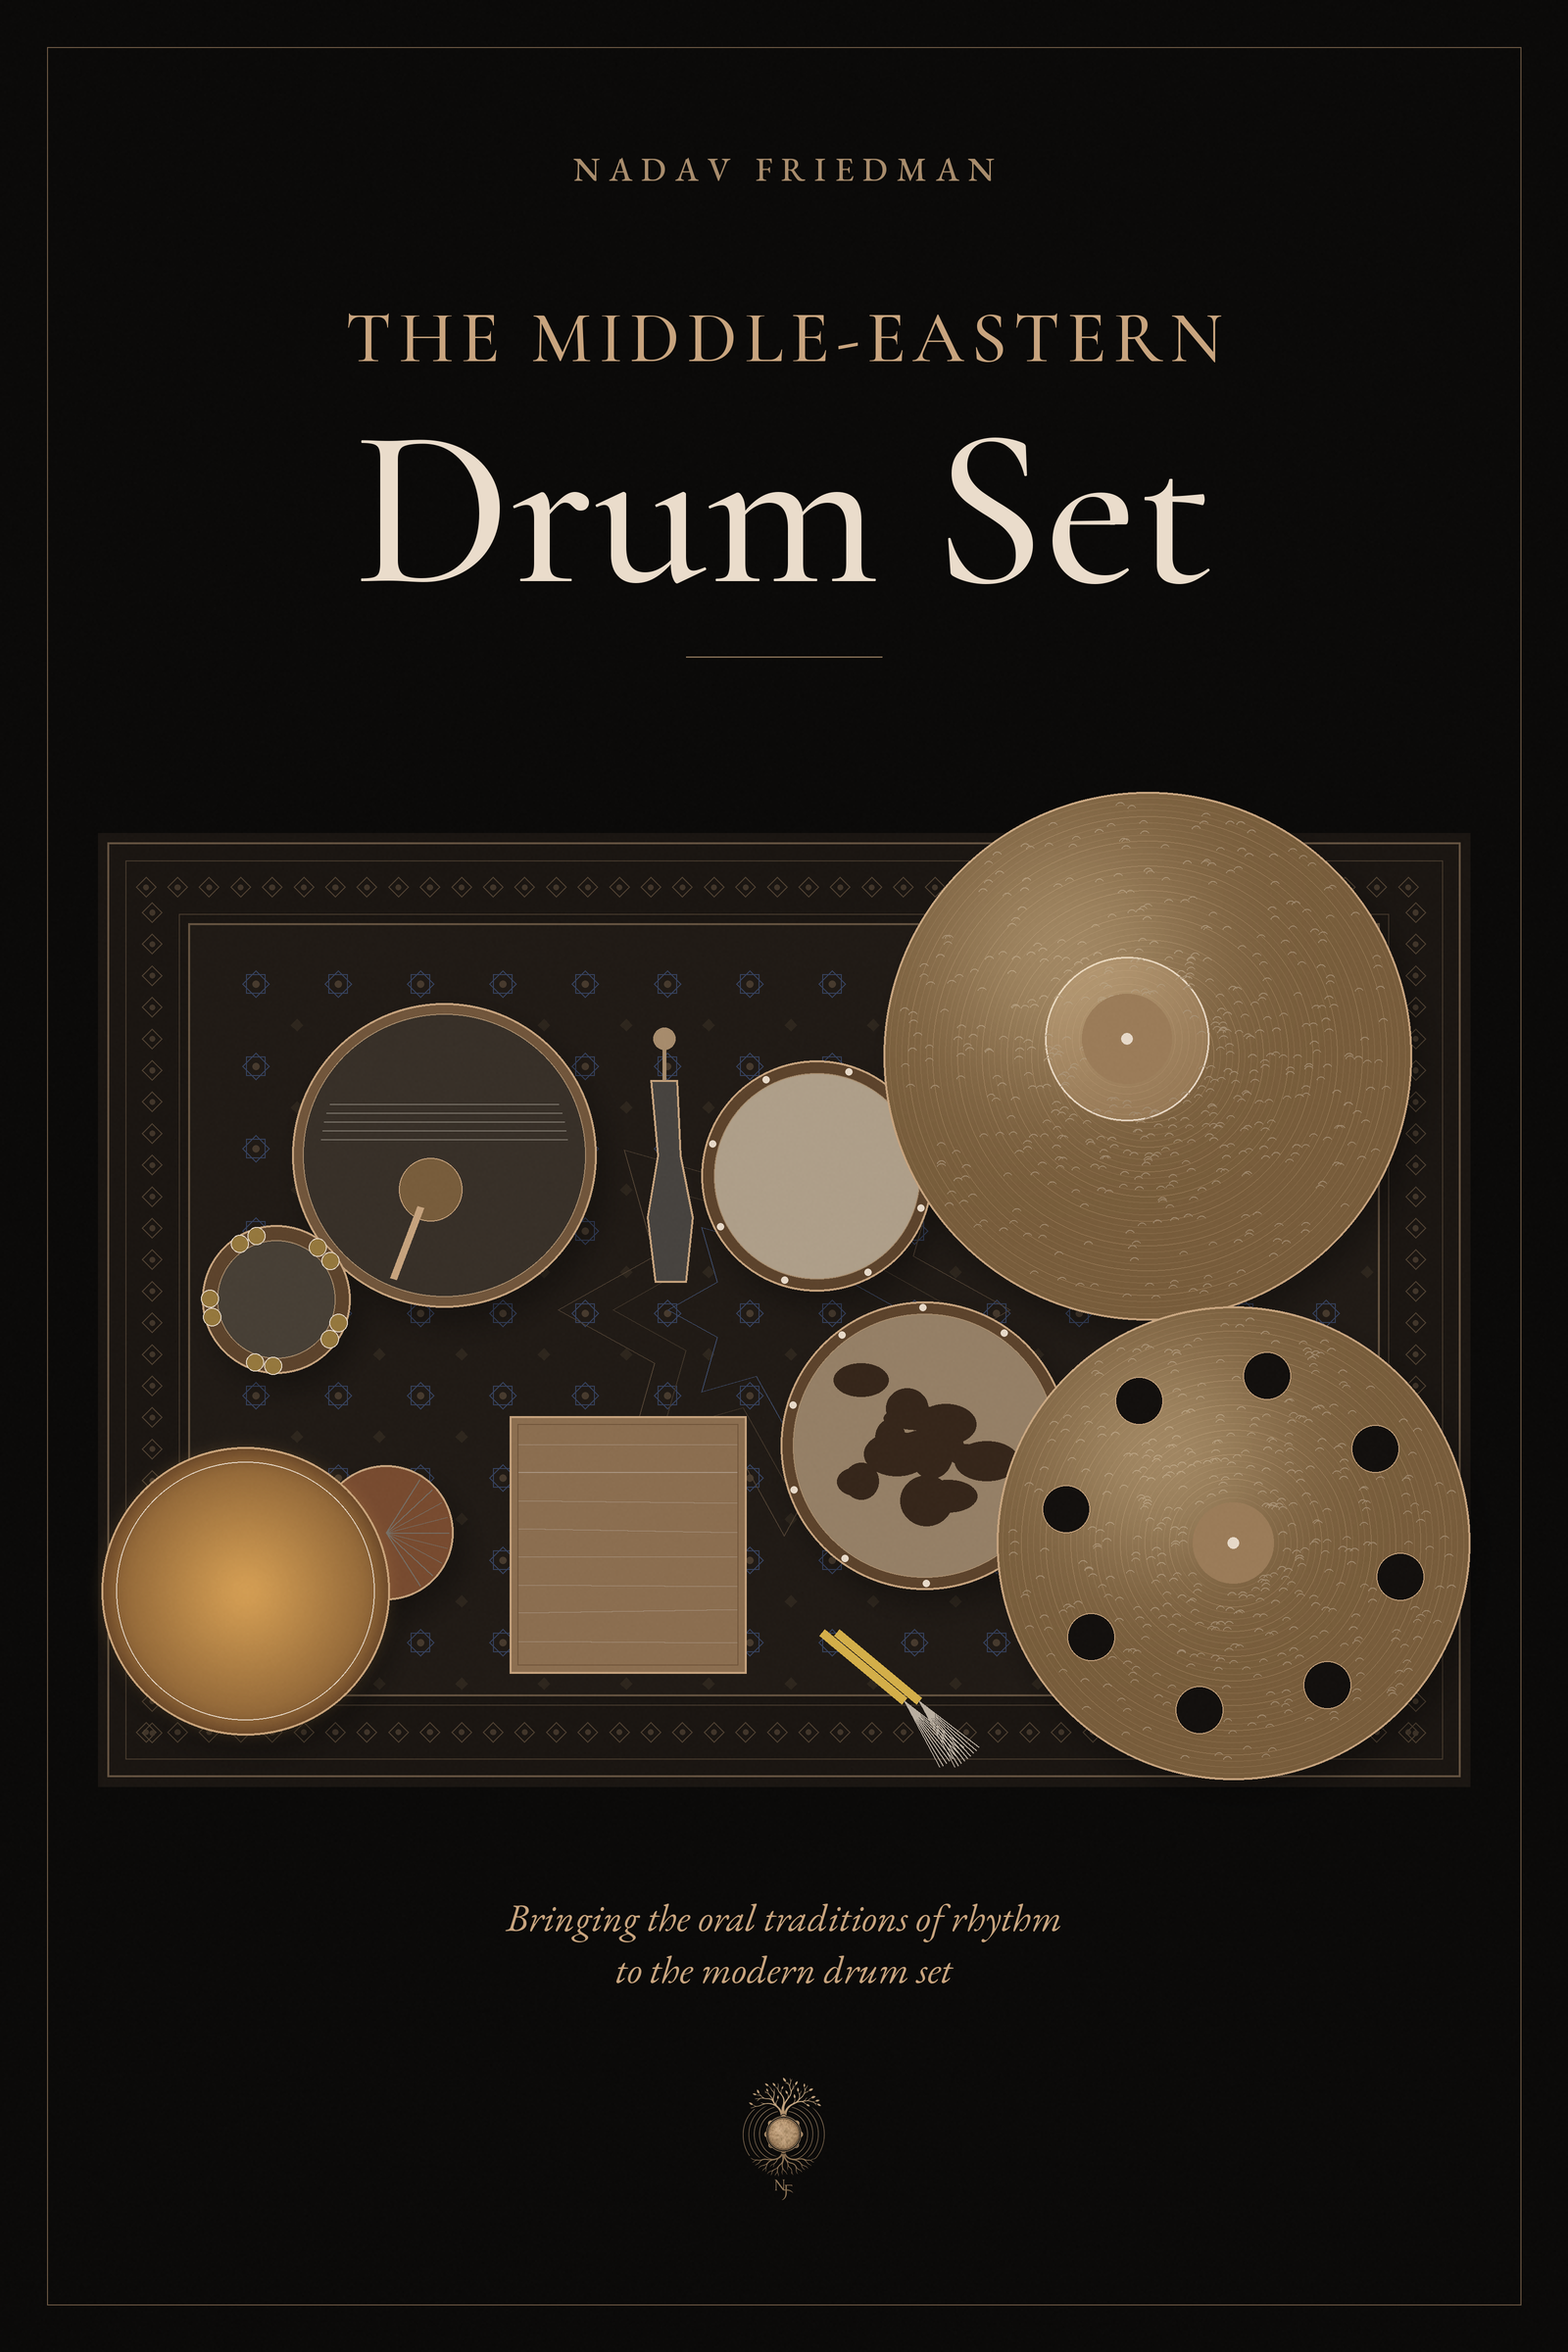
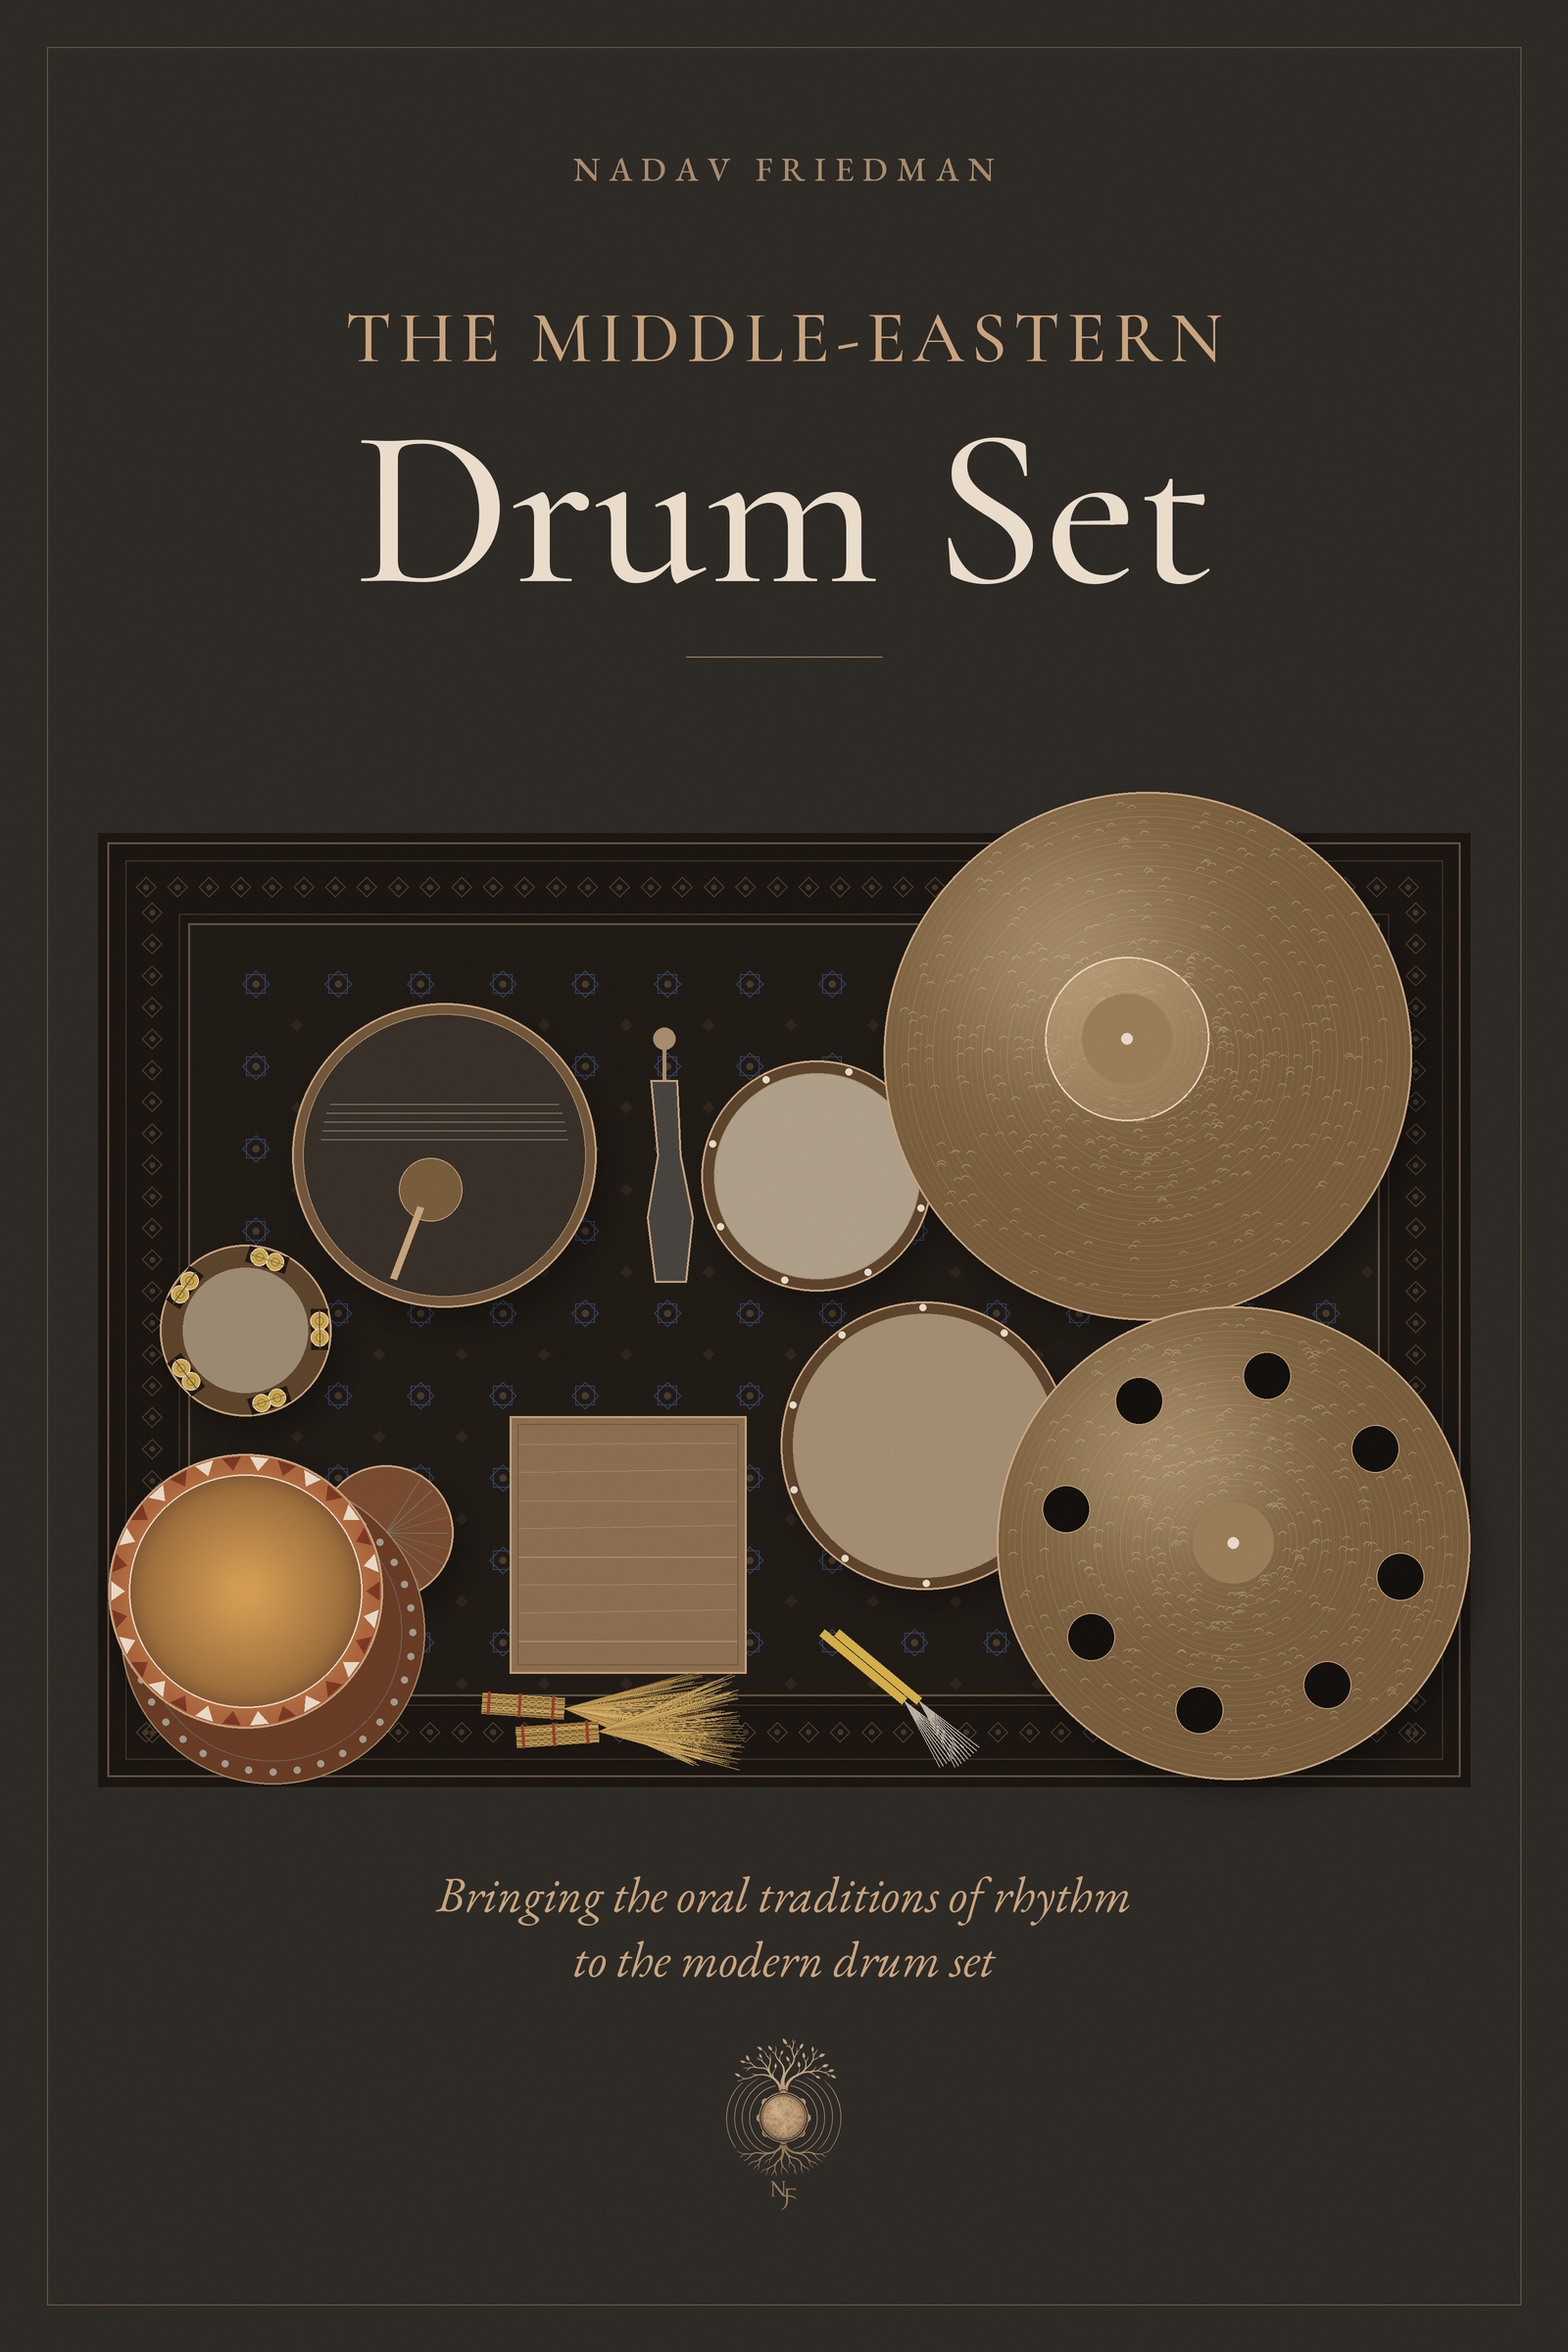
Book cover: darbuka, riq, plain hide head, straw brooms, lighter ground
- The lit drum is now a clay darbuka with a painted rim and bowl.
- The riq sits apart from the frame drum, with five slots of jingles.
- The hair drum's head is a single colour.
- Straw brooms lie beside the brushes.
- Warm charcoal background instead of black, so the book stands out on
  the site; larger tagline and logo; no stray medallion lines.

Claude-Session: https://claude.ai/code/session_01UMLzKEYdoDBNVKVTvtyBiW

diff --git a/public/study.html b/public/study.html
@@ -50,7 +50,7 @@
       </div>
     </div>
     <figure class="book">
-      <img src="assets/img/book-middle-eastern-drum-set.jpg" alt="Cover of The Middle-Eastern Drum Set by Nadav Friedman: his percussion set seen from above on a Persian rug, frame drums, riq and hand drums beside cymbals, a pedal and a cajon" width="1000" height="1500" fetchpriority="high">
+      <img src="assets/img/book-middle-eastern-drum-set.jpg" alt="Cover of The Middle-Eastern Drum Set by Nadav Friedman: his percussion set seen from above on a Persian rug, a clay darbuka lit from within, riq, frame drum and hide drums beside cymbals, a cajon, brushes and straw brooms" width="1000" height="1500" fetchpriority="high">
     </figure>
   </div>
 </section>

diff --git a/src/pages/study.html b/src/pages/study.html
@@ -9,7 +9,7 @@
       </div>
     </div>
     <figure class="book">
-      <img src="assets/img/book-middle-eastern-drum-set.jpg" alt="Cover of The Middle-Eastern Drum Set by Nadav Friedman: his percussion set seen from above on a Persian rug, frame drums, riq and hand drums beside cymbals, a pedal and a cajon" width="1000" height="1500" fetchpriority="high">
+      <img src="assets/img/book-middle-eastern-drum-set.jpg" alt="Cover of The Middle-Eastern Drum Set by Nadav Friedman: his percussion set seen from above on a Persian rug, a clay darbuka lit from within, riq, frame drum and hide drums beside cymbals, a cajon, brushes and straw brooms" width="1000" height="1500" fetchpriority="high">
     </figure>
   </div>
 </section>

diff --git a/design/make_book_cover.py b/design/make_book_cover.py
@@ -9,7 +9,7 @@ W, H = 1600 * S, 2400 * S
 F = 'fonts/'  # Cormorant Garamond and EB Garamond variable TTFs from Google Fonts
 LOGO = 'public/assets/img/logo.webp'
 OUT = 'design/book-cover-middle-eastern-drum-set.png'
-TAN = (200, 164, 126); SOFT = (168, 140, 108); CREAM = (234, 220, 203); BG = (8, 7, 6)
+TAN = (200, 164, 126); SOFT = (168, 140, 108); CREAM = (234, 220, 203); BG = (44, 40, 36)   # warm charcoal, lighter than the site's black
 BRONZE = (120, 92, 58); WOOD = (92, 66, 42); SKIN = (58, 46, 34); INK = (24, 30, 44)
 
 def font(name, size, wght):
@@ -55,10 +55,6 @@ for gx in range(230, 1800, 120):
             d.regular_polygon((X(gx), Y(gy), R(20)), 4, rotation=rot, outline=(52, 64, 92), width=S)
         circ(gx, gy, 5, fill=dim(TAN, .35))
         d.regular_polygon((X(gx + 60), Y(gy + 60), R(9)), 4, rotation=45, fill=dim(TAN, .22))
-# medallion
-for rr, col in ((330, dim(TAN, .4)), (250, dim(TAN, .32)), (170, (60, 74, 104))):
-    pts = [polar(1000, 695, rr * (1 if k % 2 == 0 else .62), k * math.pi / 8) for k in range(16)]
-    d.polygon([(X(x), Y(y)) for x, y in pts], outline=col, width=S)
 
 # --- instruments ---
 def shadow(x, y, r):
@@ -66,7 +62,7 @@ def shadow(x, y, r):
     sd.ellipse([X(x) - R(r) + 10 * S, Y(y) - R(r) + 16 * S, X(x) + R(r) + 10 * S, Y(y) + R(r) + 16 * S], fill=150)
     return sh.filter(ImageFilter.GaussianBlur(14 * S))
 shadows = Image.new('L', (W, H), 0)
-for x, y, r in ((505, 470, 225), (260, 680, 110), (1048, 500, 168), (1205, 893, 210), (1530, 325, 385),
+for x, y, r in ((505, 470, 225), (215, 725, 128), (1048, 500, 168), (1205, 893, 210), (1530, 325, 385),
                 (1655, 1035, 345), (215, 1105, 210), (420, 1020, 100)):
     shadows = Image.composite(Image.new('L', (W, H), 255), shadows, shadow(x, y, r))
 img = Image.composite(Image.new('RGB', (W, H), (0, 0, 0)), img, shadows.point(lambda v: int(v * .55)))
@@ -89,13 +85,19 @@ circ(485, 520, 46, fill=BRONZE); ring(485, 520, 46, 1.2, TAN)
 d.line([X(470), Y(545), X(430), Y(650)], fill=TAN, width=7 * S)
 
 # riq
-circ(260, 680, 108, fill=WOOD); ring(260, 680, 108, 2.2)
-circ(260, 680, 86, fill=(70, 62, 52)); ring(260, 680, 86, 1, SOFT)
-for k in range(5):
-    a = 2 * math.pi * k / 5 + .5
-    for off in (-.14, .14):
-        px, py = polar(260, 680, 97, a + off)
-        circ(px, py, 13, fill=(150, 120, 60)); ring(px, py, 13, 1.2, CREAM)
+QX, QY, QR = 215, 725, 125
+circ(QX, QY, QR, fill=WOOD); ring(QX, QY, QR, 2.4)
+circ(QX, QY, QR - 34, fill=(156, 138, 114)); ring(QX, QY, QR - 34, 1.2, SOFT)
+for k in range(5):  # five slots, each with a pair of brass jingles
+    a = 2 * math.pi * k / 5 - math.pi / 2 + .3
+    cx, cy = polar(QX, QY, QR - 17, a)
+    tx, ty = -math.sin(a), math.cos(a); nx, ny = math.cos(a), math.sin(a)
+    corners = [(cx + tx * u + nx * v, cy + ty * u + ny * v) for u, v in ((-30, -12), (30, -12), (30, 12), (-30, 12))]
+    d.polygon([(X(px), Y(py)) for px, py in corners], fill=(30, 22, 16))
+    for u in (-12, 12):
+        jx, jy = cx + tx * u, cy + ty * u
+        circ(jx, jy, 13, fill=(204, 168, 78)); ring(jx, jy, 13, 1.2, CREAM); ring(jx, jy, 6, 1, (150, 118, 50))
+    d.line([X(cx - tx * 28), Y(cy - ty * 28), X(cx + tx * 28), Y(cy + ty * 28)], fill=(90, 80, 70), width=S)
 
 # bass drum pedal
 pts = [(805, 360), (845, 360), (850, 470), (868, 560), (858, 655), (812, 655), (800, 560), (815, 470)]
@@ -103,13 +105,9 @@ d.polygon([(X(a), Y(b)) for a, b in pts], fill=(70, 66, 62), outline=TAN, width=
 d.line([X(826), Y(360), X(826), Y(300)], fill=SOFT, width=4 * S)
 circ(826, 300, 16, fill=SOFT)
 
-# two hide drums: a white goat skin and a spotted one
+# two hide drums
 hide_drum(1048, 500, 168, (176, 160, 138))
-hide_drum(1205, 893, 210, (150, 128, 102), 10)
-for _ in range(16):  # spots
-    a = random.uniform(0, 2 * math.pi); rr = random.uniform(0, 140)
-    px, py = polar(1205, 893, rr, a); w_, h_ = random.uniform(20, 55), random.uniform(14, 40)
-    d.ellipse([X(px - w_), Y(py - h_), X(px + w_), Y(py + h_)], fill=(52, 36, 24))
+hide_drum(1205, 893, 210, (164, 142, 114), 10)
 
 # cajon
 d.rectangle([X(600), Y(850), X(945), Y(1225)], fill=mix(WOOD, TAN, .45), outline=TAN, width=2 * S)
@@ -123,15 +121,25 @@ circ(420, 1020, 98, fill=(120, 74, 46)); ring(420, 1020, 98, 2, TAN)
 for k in range(9):
     a = -1.0 + k * .25
     d.line([X(420), Y(1020), *[X(v) if i == 0 else Y(v) for i, v in enumerate(polar(420, 1020, 92, a))]], fill=dim(CREAM, .5), width=S)
+circ(255, 1165, 222, fill=(104, 58, 34)); ring(255, 1165, 222, 1.6, dim(TAN, .8))
+for k in range(36):  # painted dots on the bowl
+    px, py = polar(255, 1165, 204, 2 * math.pi * k / 36)
+    circ(px, py, 5, fill=dim(CREAM, .7))
+ring(255, 1165, 188, 1, dim(CREAM, .45))
+circ(215, 1105, 200, fill=(170, 98, 58)); ring(215, 1105, 200, 2.4)
+for k in range(30):  # painted triangles on the rim
+    a0 = 2 * math.pi * k / 30
+    tri = [polar(215, 1105, 196, a0 - .07), polar(215, 1105, 196, a0 + .07), polar(215, 1105, 176, a0)]
+    d.polygon([(X(px), Y(py)) for px, py in tri], fill=CREAM if k % 2 else (120, 52, 32))
 glow = Image.new('RGB', (W, H), (0, 0, 0)); gm = Image.new('L', (W, H), 0); gd = ImageDraw.Draw(gm)
 for i in range(40):
-    rr = 200 * (1 - i / 40)
+    rr = 168 * (1 - i / 40)
     gd.ellipse([X(215) - R(rr), Y(1105) - R(rr), X(215) + R(rr), Y(1105) + R(rr)], fill=int(90 + 160 * i / 40))
 gm = gm.filter(ImageFilter.GaussianBlur(10 * S))
-circ(215, 1105, 210, fill=(96, 62, 34)); ring(215, 1105, 210, 2.4)
+circ(215, 1105, 170, fill=(110, 70, 40))
 img.paste(Image.new('RGB', (W, H), (238, 178, 92)), (0, 0), gm.point(lambda v: int(v * .9)))
 d = ImageDraw.Draw(img)
-ring(215, 1105, 188, 1.2, CREAM)
+ring(215, 1105, 170, 1.6, CREAM)
 
 def sheen(x, y, r):
     global img, d
@@ -174,7 +182,23 @@ for dx in (0, 22):
         a = math.radians(38 + k * 3)
         d.line([X(1175 + dx), Y(1265), X(1175 + dx + 110 * math.cos(a)), Y(1265 + 110 * math.sin(a))], fill=dim(CREAM, .8), width=S)
 
-# keep the drawing inside the rug and soften its edge into the page
+# two straw brooms lying beside the brushes
+def broom(x0, y0, ang, seed):
+    rnd = random.Random(seed)
+    ux, uy = math.cos(math.radians(ang)), math.sin(math.radians(ang))
+    hx, hy = x0 + ux * 120, y0 + uy * 120          # end of the bound handle
+    for k in range(-6, 7):                        # tight bundle
+        ox, oy = -uy * k * 2.4, ux * k * 2.4
+        d.line([X(x0 + ox), Y(y0 + oy), X(hx + ox), Y(hy + oy)], fill=mix((206, 168, 96), (150, 112, 54), rnd.random()), width=S * 2)
+    for t in (10, 55, 104):                       # thread bindings
+        bx, by = x0 + ux * t, y0 + uy * t
+        d.line([X(bx - uy * 17), Y(by + ux * 17), X(bx + uy * 17), Y(by - ux * 17)], fill=(150, 56, 40), width=S * 3)
+    for _ in range(150):                          # the fanned straw
+        a = math.radians(ang + rnd.uniform(-20, 20)); L = rnd.uniform(150, 215)
+        d.line([X(hx), Y(hy), X(hx + math.cos(a) * L), Y(hy + math.sin(a) * L)], fill=mix((222, 186, 110), (160, 120, 60), rnd.random()), width=S)
+broom(560, 1268, 4, 1)
+broom(610, 1318, -4, 2)
+
 
 # grain
 noise = Image.effect_noise((W // 4, H // 4), 18).resize((W, H)).convert('L')
@@ -194,12 +218,12 @@ text_c(150, 'NADAV FRIEDMAN', font('EBGaramond[wght].ttf', 34, 500), SOFT, track
 text_c(300, 'THE MIDDLE-EASTERN', font('CormorantGaramond[wght].ttf', 74, 500), TAN, track=7)
 text_c(380, 'Drum Set', font('CormorantGaramond[wght].ttf', 230, 500), CREAM)
 d.line([700 * S, 670 * S, 900 * S, 670 * S], fill=SOFT, width=S)
-sub = font('EBGaramond-Italic[wght].ttf', 40, 400)
-text_c(1930, 'Bringing the oral traditions of rhythm', sub, TAN)
-text_c(1983, 'to the modern drum set', sub, TAN)
-logo = Image.open(LOGO).convert('RGBA'); lh = 125 * S
+sub = font('EBGaramond-Italic[wght].ttf', 50, 400)
+text_c(1900, 'Bringing the oral traditions of rhythm', sub, TAN)
+text_c(1966, 'to the modern drum set', sub, TAN)
+logo = Image.open(LOGO).convert('RGBA'); lh = 175 * S
 logo = logo.resize((int(logo.width * lh / logo.height), lh), Image.LANCZOS)
-img.paste(logo, ((W - logo.width) // 2, 2120 * S), logo)
+img.paste(logo, ((W - logo.width) // 2, 2080 * S), logo)
 d.rectangle([48 * S, 48 * S, W - 48 * S, H - 48 * S], outline=dim(TAN, .55), width=S)
 
 img.resize((1600, 2400), Image.LANCZOS).save(OUT)
